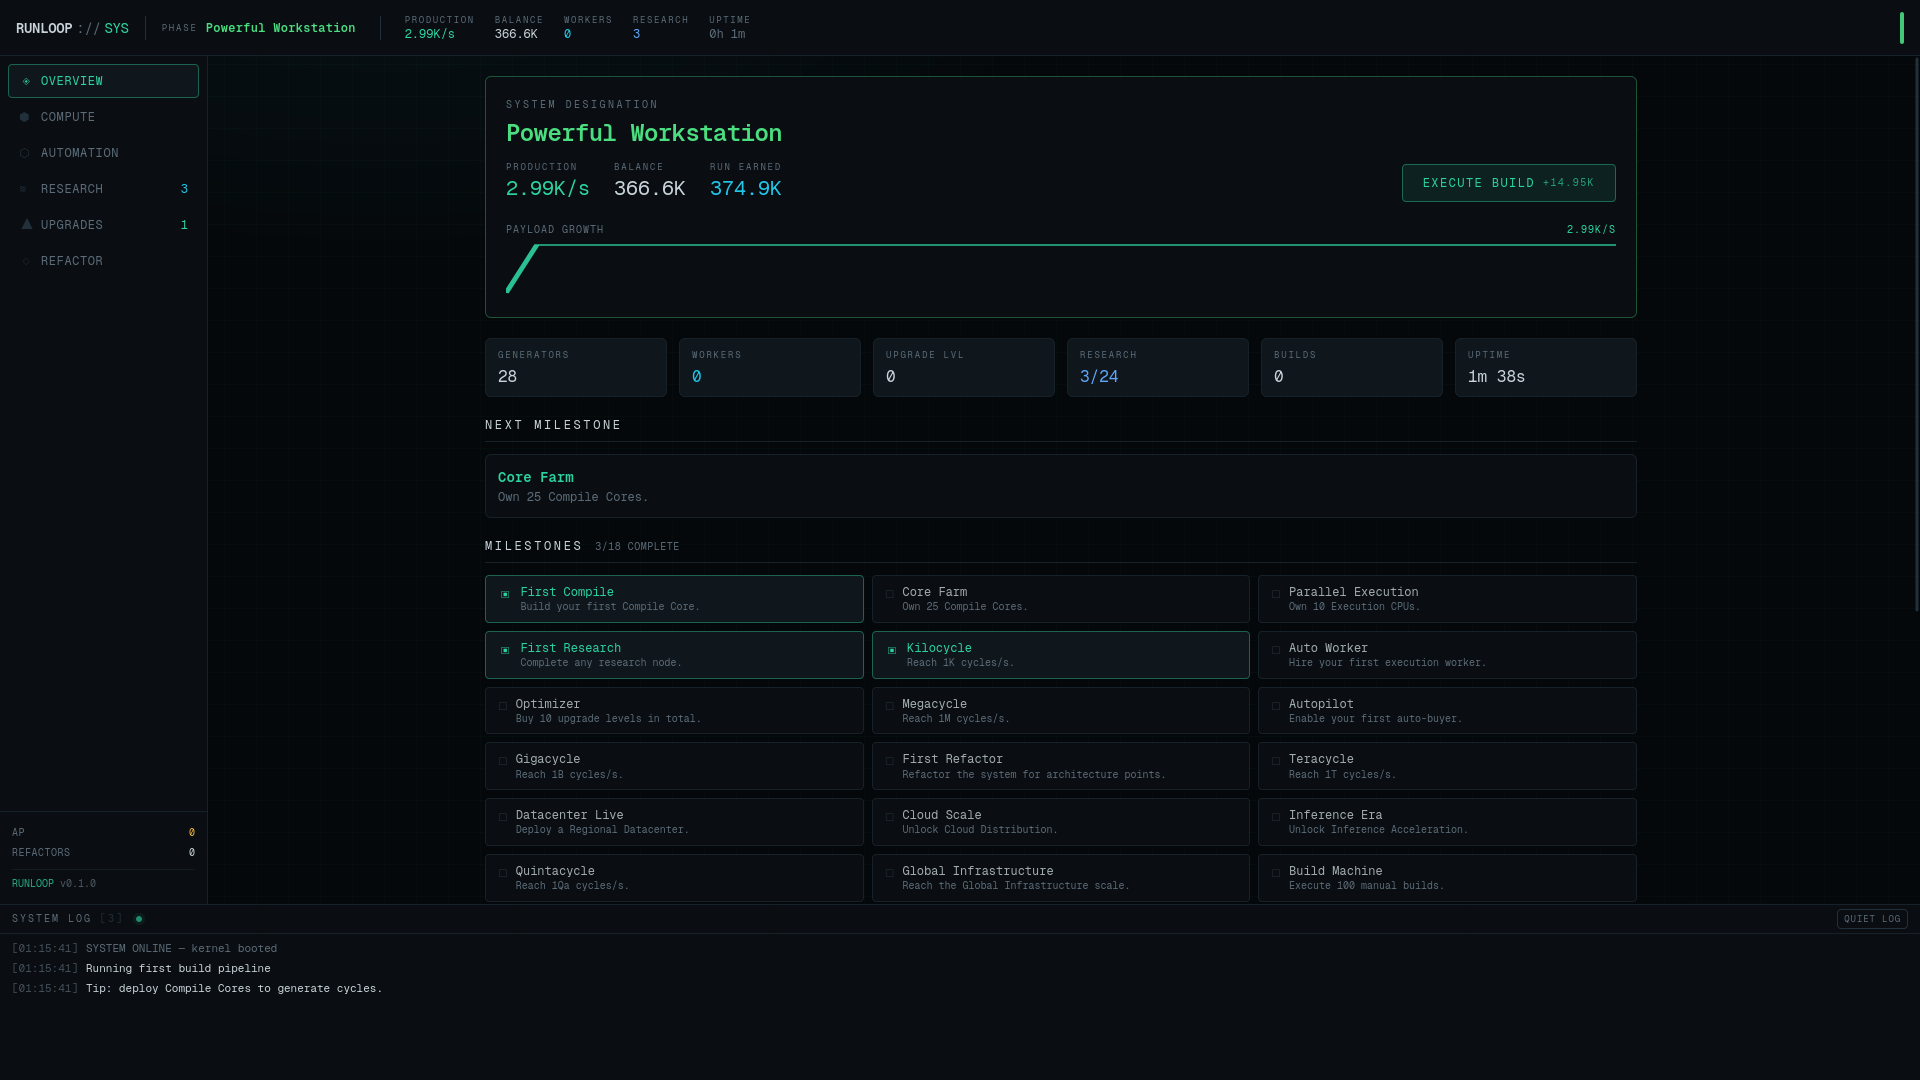
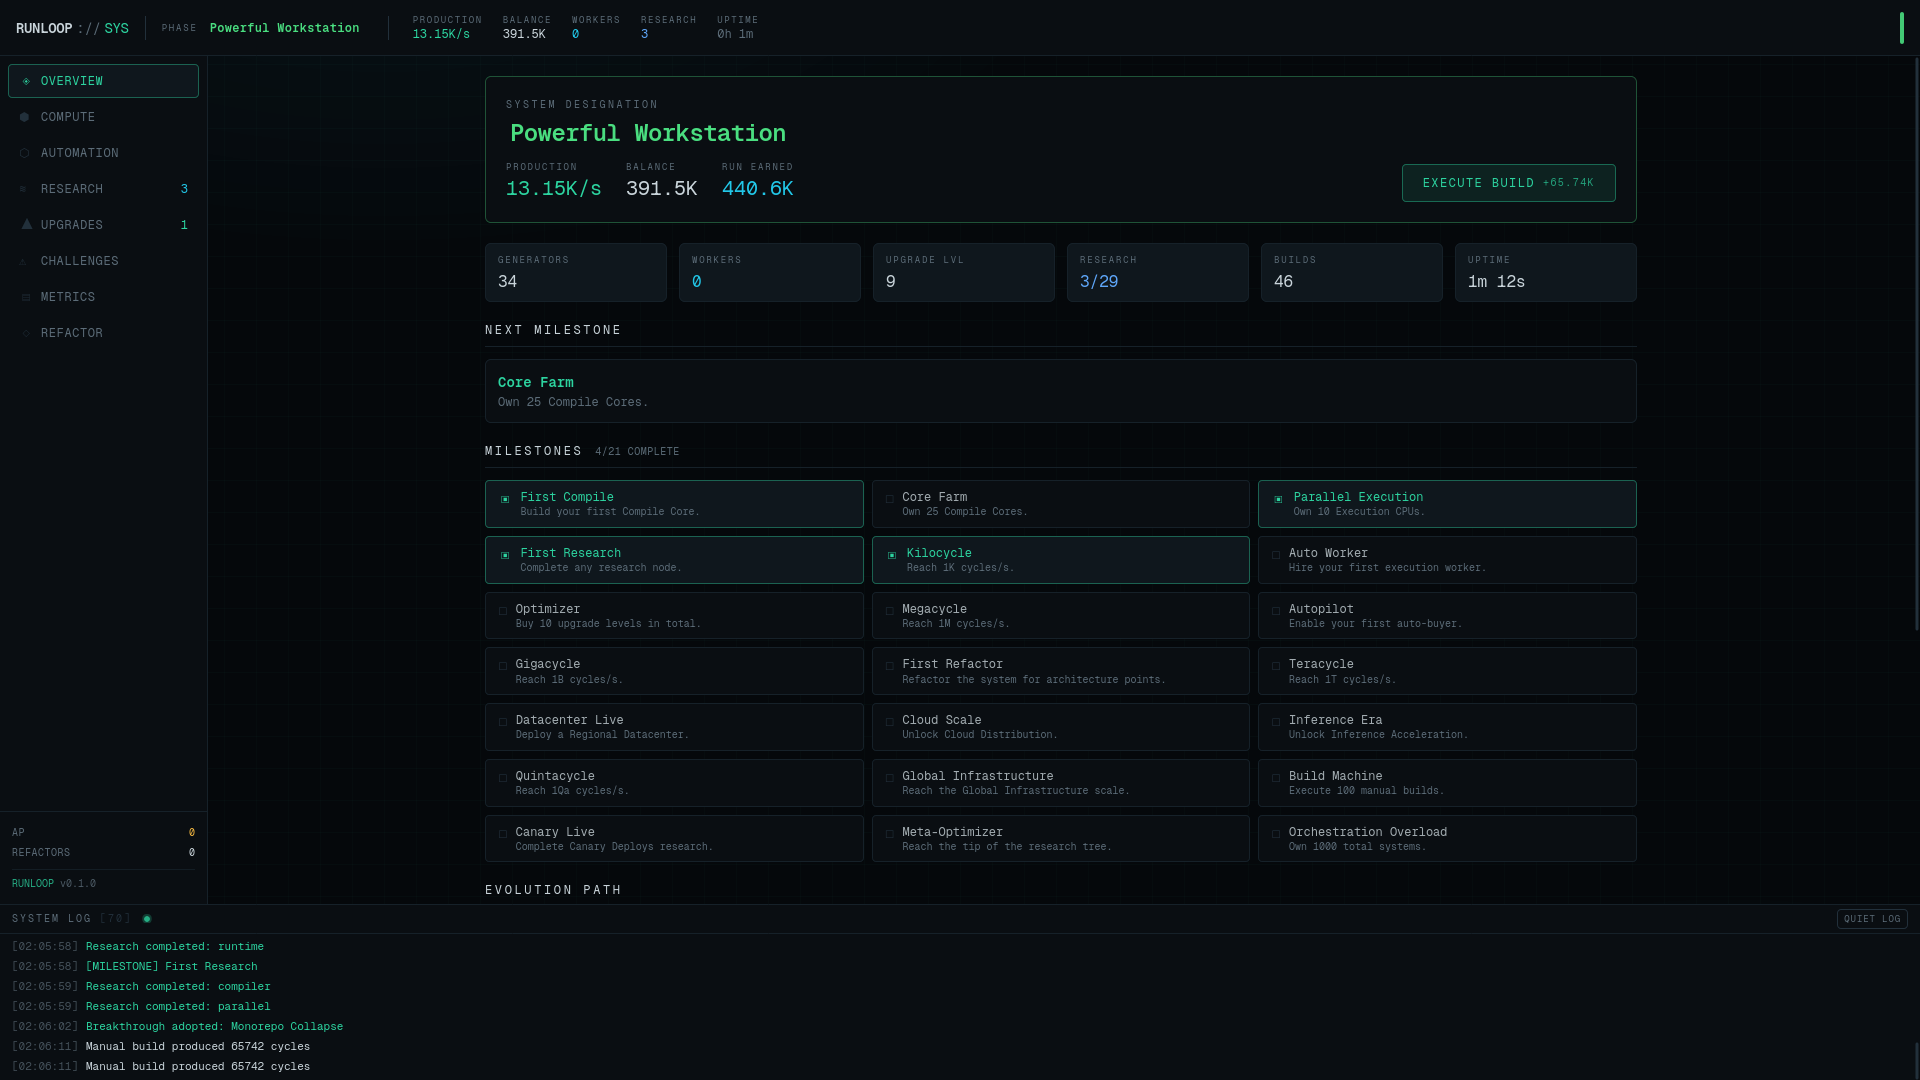
feat: new img

diff --git a/README.md b/README.md
@@ -13,6 +13,10 @@
 </p>
 
 <p align="center">
+  <img src="docs/research-page.png" alt="RUNLOOP research page screenshot" width="800" />
+</p>
+
+<p align="center">
   <img src="docs/refactor-page.png" alt="RUNLOOP refactor page screenshot" width="800" />
 </p>
 
